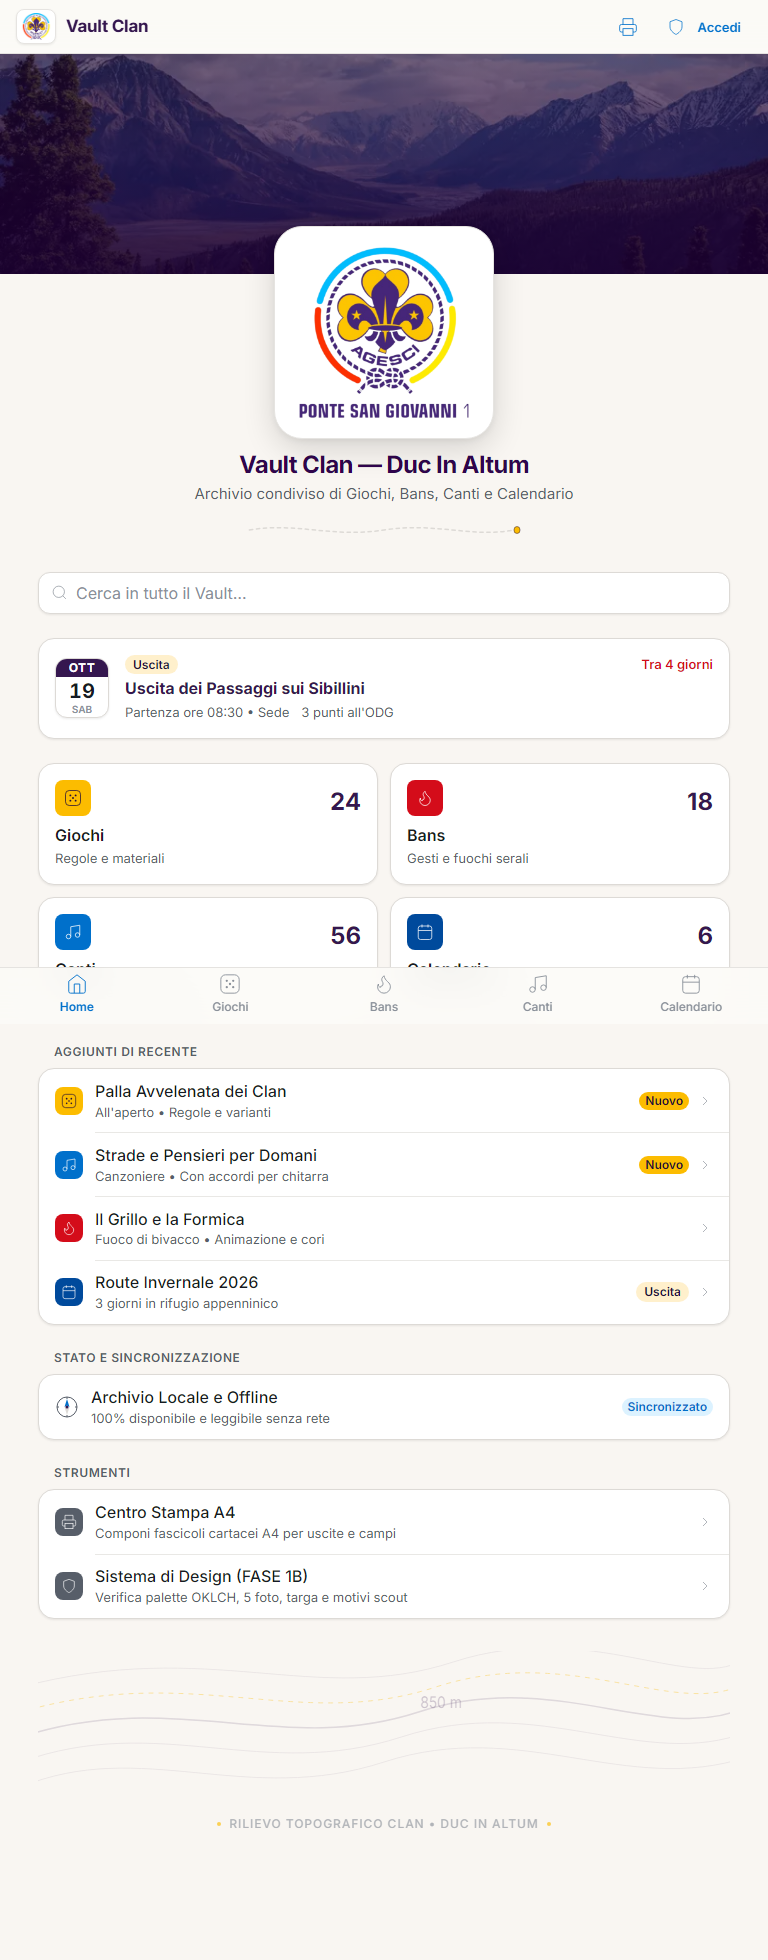
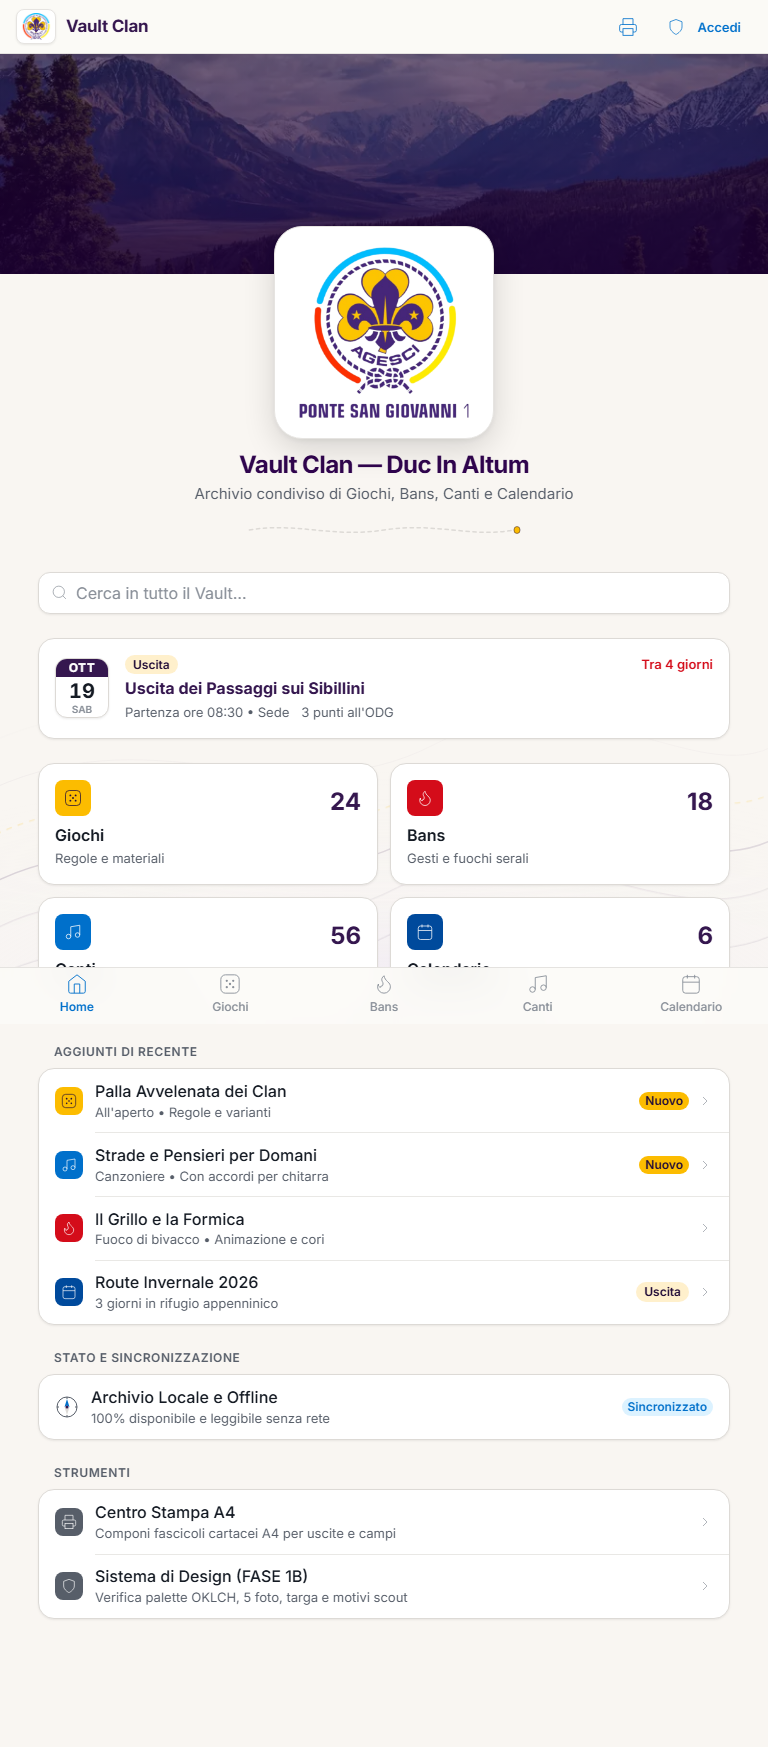
fix(ui): evoluzione dello sfondo topografico in livello ambientale globale in Shell per tutte le pagine

diff --git a/src/ui/TopographicBackground.tsx b/src/ui/TopographicBackground.tsx
@@ -1,36 +1,37 @@
 export interface TopographicBackgroundProps {
   className?: string;
-  showCaption?: boolean;
 }
 
 /**
- * Sfondo Vettoriale con Curve di Livello Topografiche (Isoipse Cartografiche)
- * Ispirato alle carte IGM scout 1:25.000 dei Monti Sibillini e colline perugine.
- * - Tratto sottile ad altissima definizione
- * - Opacità delicata (6-12%) integrata nei token dell'inchiostro
- * - Lenta animazione armoniosa su sole proprietà transform
+ * Sfondo Topografico Ambientale Globale (Isoipse Cartografiche Vettoriali)
+ * Ispirato alle carte topografiche escursionistiche IGM 1:25.000.
+ * - Posizionato in modo fisso sul fondo del viewport, dietro a tutti i contenuti.
+ * - Diffusione radiale dell'inchiostro del marchio che elimina la sensazione di "piatto/vuoto".
+ * - Curve di livello vettoriali che respirano lentamente con animazioni GPU-accelerate.
+ * - Nessun layout shift, nessuna interferenza con il tocco o lo scroll (pointer-events: none).
  */
-export function TopographicBackground({
-  className = '',
-  showCaption = true,
-}: TopographicBackgroundProps) {
+export function TopographicBackground({ className = '' }: TopographicBackgroundProps) {
   return (
     <div
       className={`topo-contour-wrapper ${className}`.trim()}
       aria-hidden="true"
       role="presentation"
     >
+      {/* Alone di luce e profondità ambientale in tinta con la palette */}
+      <div className="topo-ambient-glow" />
+
+      {/* Rete di curve di livello topografiche */}
       <svg
-        viewBox="0 0 800 140"
+        viewBox="0 0 1200 240"
         fill="none"
         xmlns="http://www.w3.org/2000/svg"
         className="topo-contour-svg"
         preserveAspectRatio="none"
       >
-        {/* Curva 1 (Profondità esterna) */}
+        {/* Curva 1 (Profondità esterna / vallata) */}
         <g className="topo-contour-anim-2">
           <path
-            d="M-20 120 C120 70, 240 140, 400 95 C560 50, 680 130, 820 90"
+            d="M-40 215 C160 145, 360 235, 600 175 C840 115, 1040 225, 1240 165"
             className="topo-line"
           />
         </g>
@@ -38,27 +39,22 @@ export function TopographicBackground({
         {/* Curva 2 (Intermedia) */}
         <g className="topo-contour-anim-1">
           <path
-            d="M-20 95 C140 45, 260 115, 420 70 C580 25, 700 105, 820 65"
+            d="M-40 178 C180 108, 380 198, 620 138 C860 78, 1060 188, 1240 128"
             className="topo-line"
           />
         </g>
 
-        {/* Curva 3 (Direttrice Principale con spessore maggiore) */}
+        {/* Curva 3 (Direttrice Principale con quota altimetrica discreta) */}
         <g className="topo-contour-anim-3">
           <path
-            d="M-20 70 C160 20, 280 90, 440 45 C600 0, 720 80, 820 40"
+            d="M-40 142 C200 72, 400 162, 640 102 C880 42, 1080 152, 1240 92"
             className="topo-line topo-line-major"
           />
-          {/* Quota altimetrica discreta */}
           <text
-            x="442"
-            y="41"
+            x="644"
+            y="98"
             fill="var(--color-ink)"
-            opacity="0.22"
-            fontSize="9"
-            fontFamily="var(--font-sans)"
-            fontWeight="600"
-            letterSpacing="0.05em"
+            className="topo-elevation-text"
           >
             850 m
           </text>
@@ -67,27 +63,35 @@ export function TopographicBackground({
         {/* Curva 4 (Sentiero / Curva d'accento tratteggiata gialla scout) */}
         <g className="topo-contour-anim-1">
           <path
-            d="M-20 45 C180 -5, 300 65, 460 20 C620 -25, 740 55, 820 15"
+            d="M-40 106 C220 36, 420 126, 660 66 C900 6, 1100 116, 1240 56"
             className="topo-line topo-line-accent"
           />
         </g>
 
-        {/* Curva 5 (Vetta / Cresta interna) */}
+        {/* Curva 5 (Cresta interna / colle) */}
         <g className="topo-contour-anim-2">
           <path
-            d="M-20 20 C200 -30, 320 40, 480 -5 C640 -50, 760 30, 820 -10"
+            d="M-40 70 C240 0, 440 90, 680 30 C920 -30, 1120 80, 1240 20"
+            className="topo-line"
+          />
+          <text
+            x="245"
+            y="14"
+            fill="var(--color-ink)"
+            className="topo-elevation-text"
+          >
+            920 m
+          </text>
+        </g>
+
+        {/* Curva 6 (Vetta) */}
+        <g className="topo-contour-anim-3">
+          <path
+            d="M-40 34 C260 -36, 460 54, 700 -6 C940 -66, 1140 44, 1240 -16"
             className="topo-line"
           />
         </g>
       </svg>
-
-      {showCaption ? (
-        <div className="topo-contour-caption">
-          <span className="topo-dot" />
-          <span>Rilievo Topografico Clan • Duc In Altum</span>
-          <span className="topo-dot" />
-        </div>
-      ) : null}
     </div>
   );
 }

diff --git a/src/styles/components.css b/src/styles/components.css
@@ -1469,26 +1469,51 @@
   }
 }
 
-/* --- 20. SFONDO TOPOGRAFICO CON ISOIPSE CARTOGRAFICHE (FONDO PAGINA VIVO) --- */
+/* --- 20. SFONDO TOPOGRAFICO GLOBALE (FONDO SCHERMO AMBIENTALE E VIVO) --- */
 .topo-contour-wrapper {
-  position: relative;
-  width: 100%;
-  overflow: hidden;
-  margin-top: var(--space-8);
-  margin-bottom: var(--space-4);
-  padding: var(--space-4) 0 var(--space-2);
-  display: flex;
-  flex-direction: column;
-  align-items: center;
-  justify-content: center;
+  position: fixed;
+  left: 0;
+  right: 0;
+  bottom: 0;
+  height: 320px;
   pointer-events: none;
   user-select: none;
+  z-index: 0;
+  overflow: hidden;
+  mask-image: linear-gradient(to top, black 30%, transparent 100%);
+  -webkit-mask-image: linear-gradient(to top, black 30%, transparent 100%);
+}
+
+.topo-ambient-glow {
+  position: absolute;
+  inset: 0;
+  background: radial-gradient(
+    ellipse 95% 80% at 50% 100%,
+    oklch(0.24 0.06 305 / 0.40) 0%,
+    oklch(0.18 0.03 305 / 0.15) 50%,
+    transparent 100%
+  );
+  pointer-events: none;
+}
+
+@media (prefers-color-scheme: light) {
+  .topo-ambient-glow {
+    background: radial-gradient(
+      ellipse 95% 80% at 50% 100%,
+      oklch(0.92 0.03 305 / 0.55) 0%,
+      oklch(0.96 0.01 305 / 0.20) 50%,
+      transparent 100%
+    );
+  }
 }
 
 .topo-contour-svg {
+  position: absolute;
+  left: 0;
+  right: 0;
+  bottom: 0;
   width: 100%;
-  max-width: 820px;
-  height: 140px;
+  height: 100%;
   display: block;
   overflow: visible;
 }
@@ -1496,74 +1521,65 @@
 .topo-line {
   fill: none;
   stroke: var(--color-ink);
-  stroke-width: 0.85;
-  opacity: 0.08;
+  stroke-width: 0.9;
+  opacity: 0.12;
   stroke-linecap: round;
   vector-effect: non-scaling-stroke;
 }
 
 .topo-line-major {
-  stroke-width: 1.4;
-  opacity: 0.13;
+  stroke-width: 1.5;
+  opacity: 0.20;
 }
 
 .topo-line-accent {
   stroke: var(--color-giochi);
-  stroke-width: 1;
-  opacity: 0.35;
-  stroke-dasharray: 4 6;
+  stroke-width: 1.1;
+  opacity: 0.42;
+  stroke-dasharray: 5 7;
 }
 
-.topo-contour-caption {
-  font-size: var(--font-size-2xs);
-  color: var(--color-text-tertiary);
-  letter-spacing: 0.08em;
-  text-transform: uppercase;
-  font-weight: 500;
-  margin-top: var(--space-2);
-  display: flex;
-  align-items: center;
-  gap: var(--space-2);
-  opacity: 0.65;
-}
-
-.topo-dot {
-  width: 4px;
-  height: 4px;
-  border-radius: 50%;
-  background-color: var(--color-giochi);
-  display: inline-block;
+.topo-elevation-text {
+  opacity: 0.25;
+  font-size: 10px;
+  font-family: var(--font-sans);
+  font-weight: 600;
+  letter-spacing: 0.06em;
+  user-select: none;
 }
 
 /* Animazione fluida e impercettibile (slow breathing wave su sole proprietà transform) */
 .topo-contour-anim-1 {
   animation: topoWaveOne 18s ease-in-out infinite alternate;
+  will-change: transform;
 }
 
 .topo-contour-anim-2 {
   animation: topoWaveTwo 24s ease-in-out infinite alternate;
+  will-change: transform;
 }
 
 .topo-contour-anim-3 {
   animation: topoWaveThree 20s ease-in-out infinite alternate;
+  will-change: transform;
 }
 
 @keyframes topoWaveOne {
   0% { transform: translateY(0); }
-  50% { transform: translateY(-4px); }
-  100% { transform: translateY(2px); }
+  50% { transform: translateY(-5px); }
+  100% { transform: translateY(3px); }
 }
 
 @keyframes topoWaveTwo {
   0% { transform: translateY(0); }
-  50% { transform: translateY(3px); }
-  100% { transform: translateY(-3px); }
+  50% { transform: translateY(4px); }
+  100% { transform: translateY(-4px); }
 }
 
 @keyframes topoWaveThree {
   0% { transform: translateY(0); }
-  50% { transform: translateY(-5px); }
-  100% { transform: translateY(1px); }
+  50% { transform: translateY(-6px); }
+  100% { transform: translateY(2px); }
 }
 
 @media (prefers-reduced-motion: reduce) {

diff --git a/src/app/Shell.tsx b/src/app/Shell.tsx
@@ -5,6 +5,7 @@ import { useAdmin } from '../lib/auth';
 import { AdminLoginModal } from '../features/admin/AdminLoginModal';
 import { Icon, IconName } from '../ui/Icon';
 import { BrandLogo } from '../ui/BrandLogo';
+import { TopographicBackground } from '../ui/TopographicBackground';
 
 export interface ShellProps {
   isOnline: boolean;
@@ -138,8 +139,11 @@ export function Shell({
         </div>
       </header>
 
+      {/* Sfondo Topografico Ambientale Globale (visibile in tutte le pagine) */}
+      <TopographicBackground />
+
       {/* Contenuto Principale con scroll e padding sicuro */}
-      <main style={{ flex: 1, minHeight: 0 }}>
+      <main style={{ flex: 1, minHeight: 0, position: 'relative', zIndex: 1 }}>
         {children}
       </main>
 

diff --git a/src/features/home/HomeView.tsx b/src/features/home/HomeView.tsx
@@ -9,7 +9,6 @@ import { BrandLogo } from '../../ui/BrandLogo';
 import { HeaderBanner } from '../../ui/HeaderBanner';
 import { SectionIcon } from '../../ui/SectionIcon';
 import { TheTrail, CompassSync } from '../../ui/ScoutMotifs';
-import { TopographicBackground } from '../../ui/TopographicBackground';
 
 export function HomeView() {
   const [searchQuery, setSearchQuery] = useState('');
@@ -253,9 +252,6 @@ export function HomeView() {
             onClick={() => navigate('design')}
           />
         </GroupedList>
-
-        {/* 10. SFONDO TOPOGRAFICO CON ISOIPSE CARTOGRAFICHE */}
-        <TopographicBackground />
       </div>
     </div>
   );

diff --git a/src/features/design/DesignSystemView.tsx b/src/features/design/DesignSystemView.tsx
@@ -12,7 +12,6 @@ import { Icon } from '../../ui/Icon';
 import { BrandLogo } from '../../ui/BrandLogo';
 import { SectionIcon } from '../../ui/SectionIcon';
 import { TheTrail, CompassSync } from '../../ui/ScoutMotifs';
-import { TopographicBackground } from '../../ui/TopographicBackground';
 import { PHOTOS } from '../../lib/photos';
 
 export function DesignSystemView() {
@@ -397,9 +396,6 @@ export function DesignSystemView() {
           onClose={() => setShowToast(false)}
         />
       ) : null}
-
-      {/* SFONDO TOPOGRAFICO CON ISOIPSE CARTOGRAFICHE */}
-      <TopographicBackground />
     </div>
   );
 }
